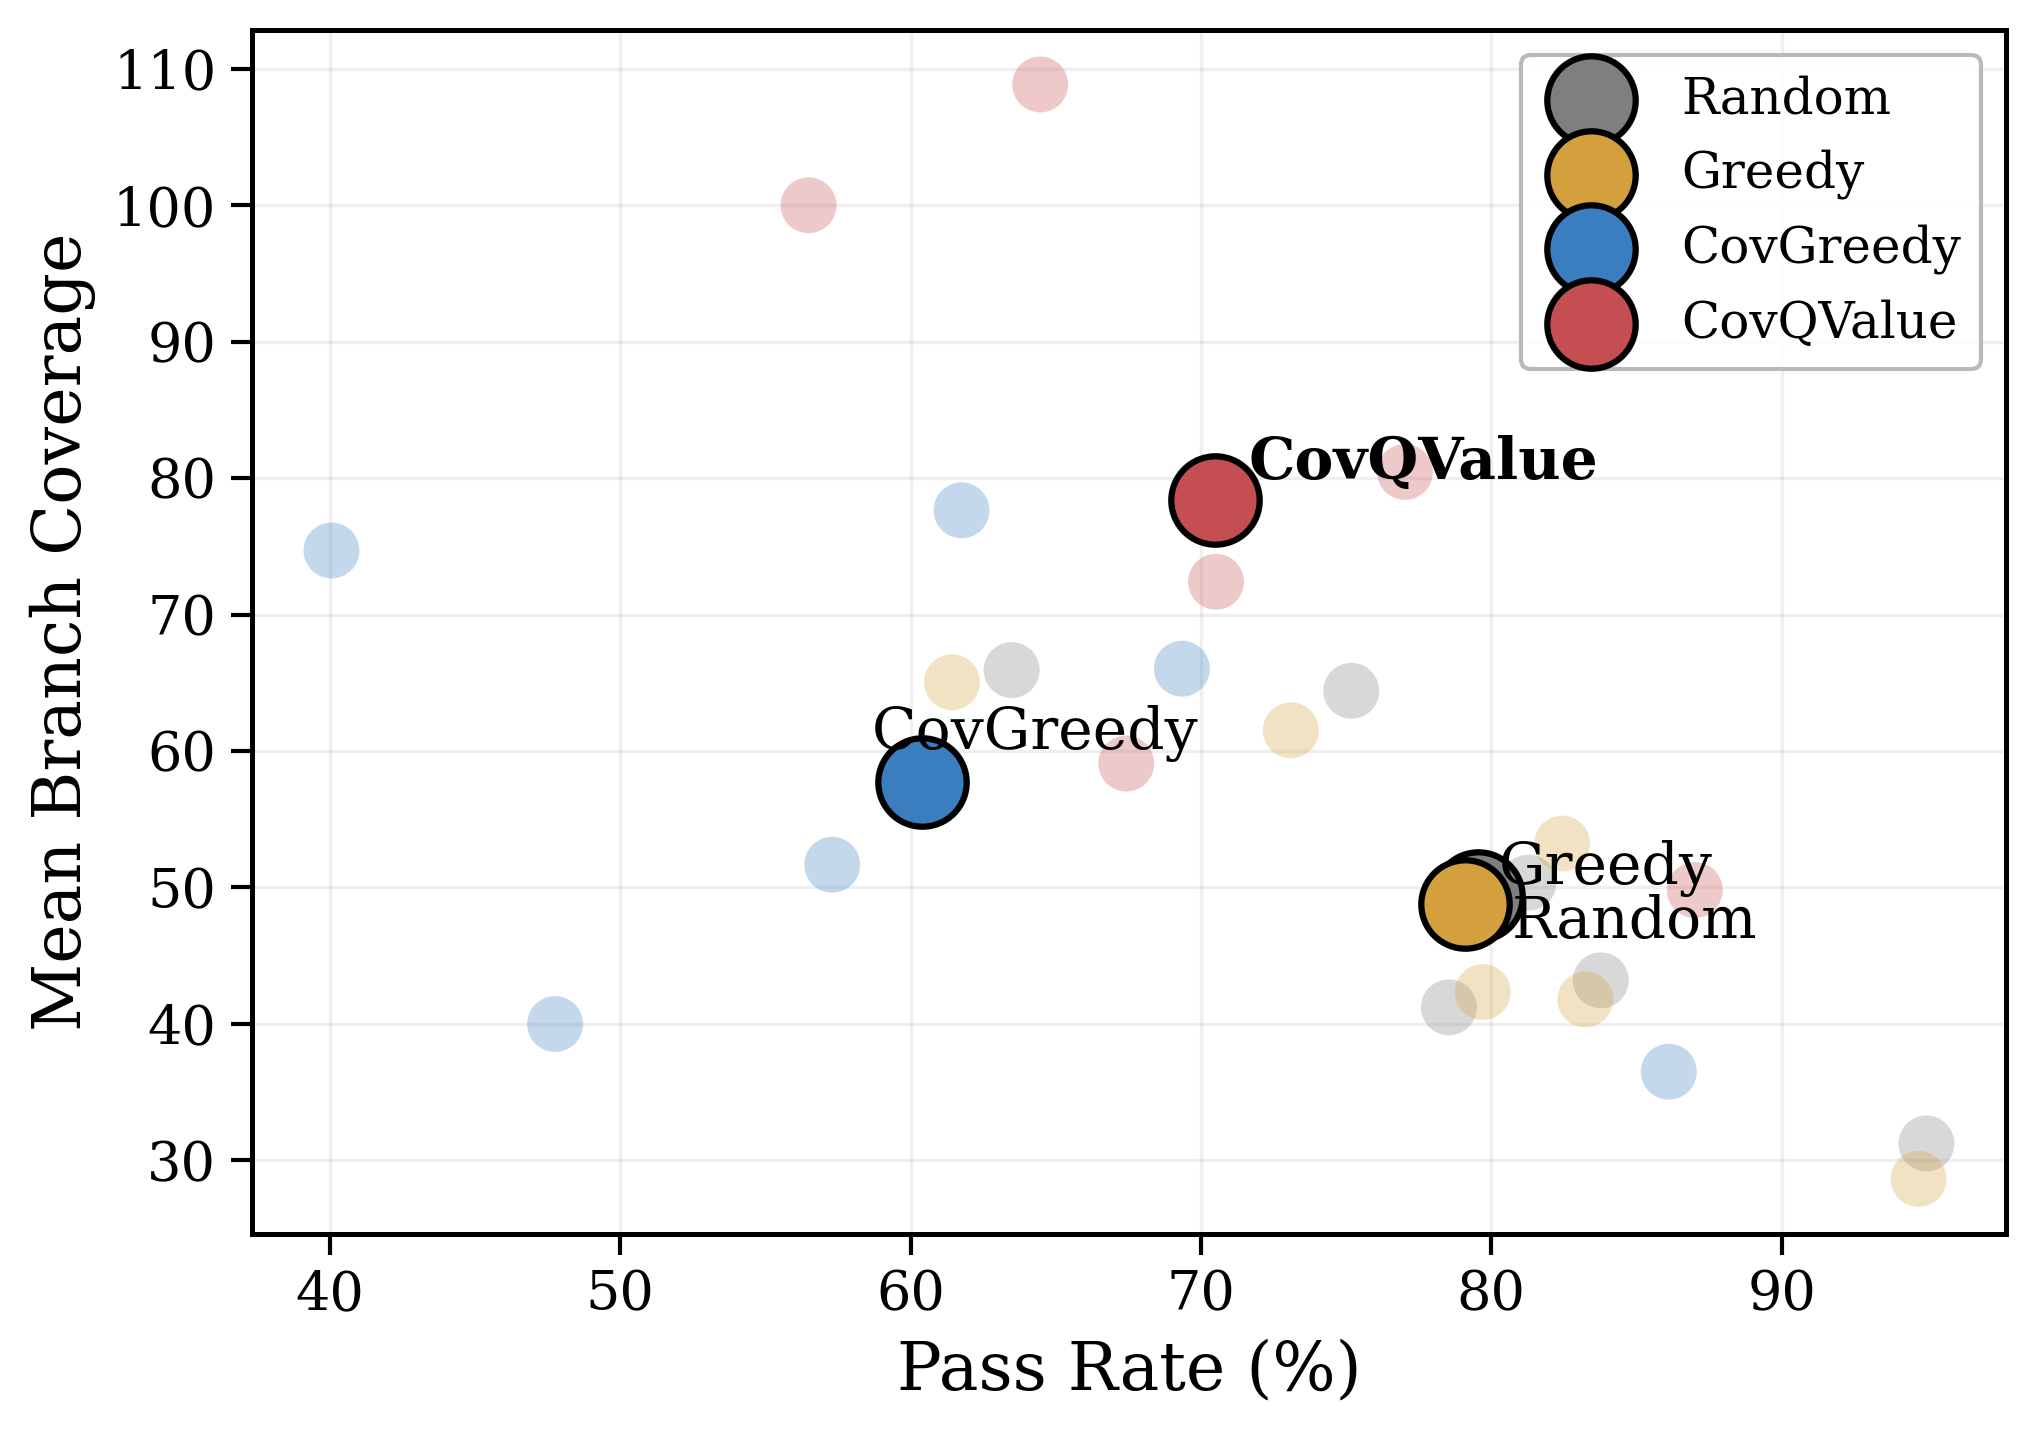
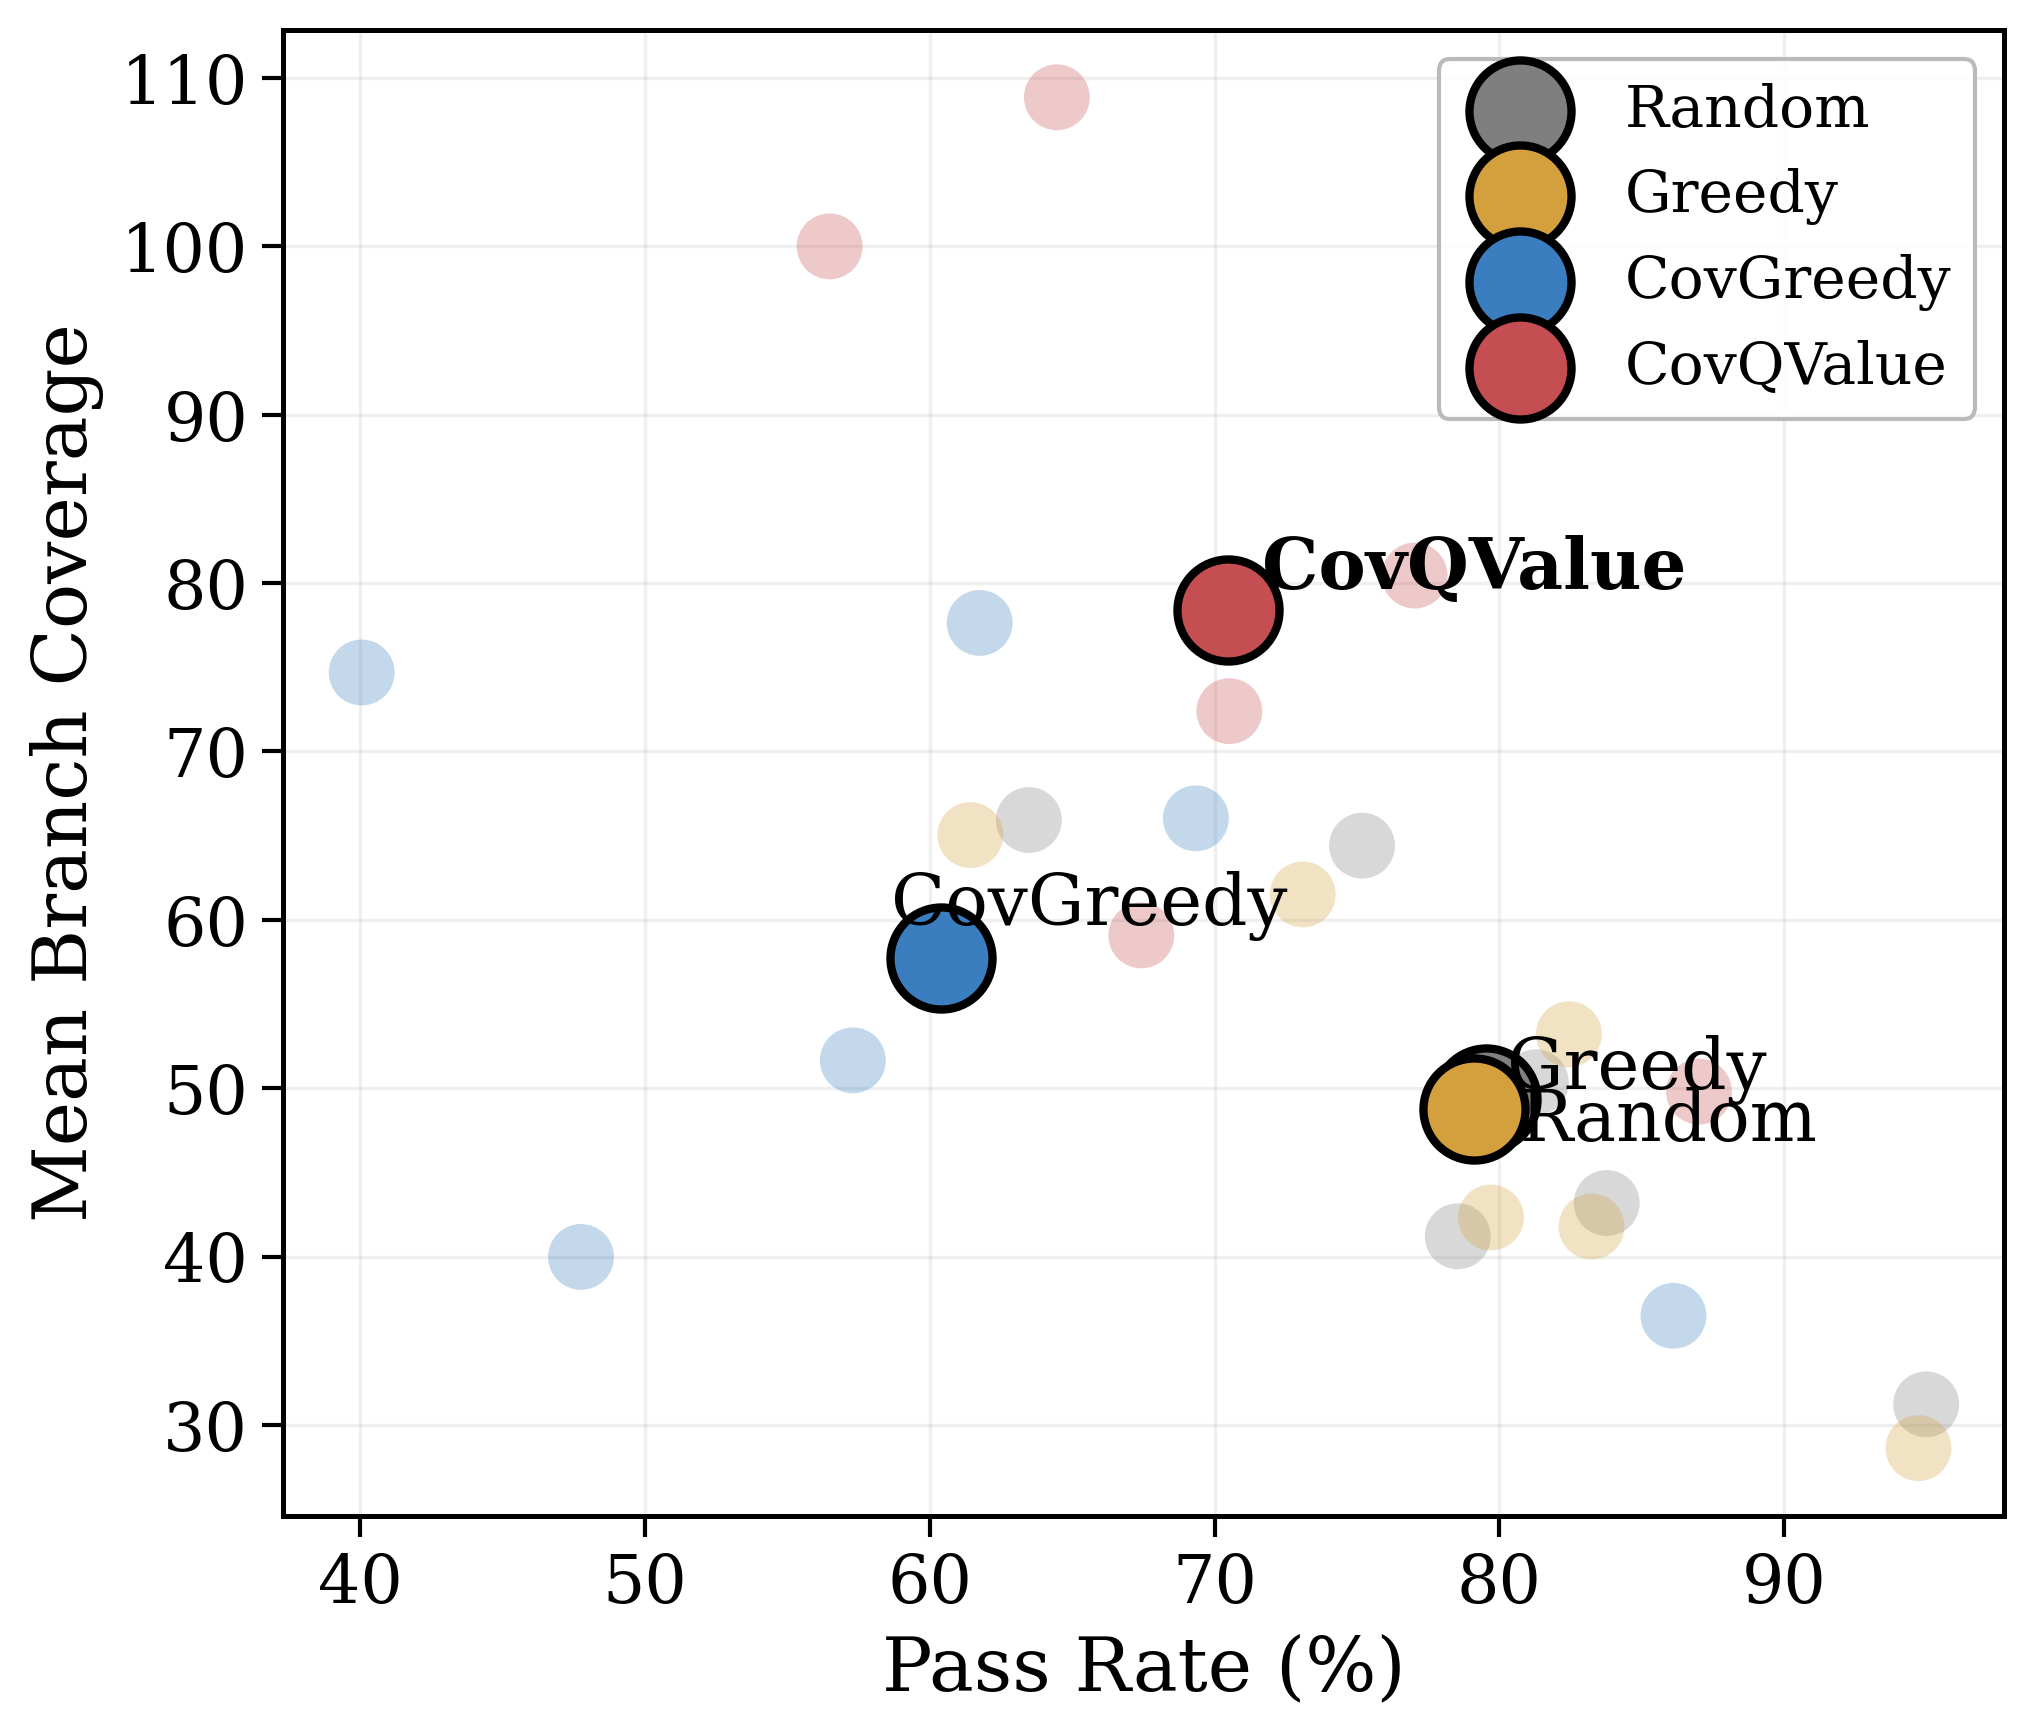
Increase fig4 sizes for 50% textwidth display

diff --git a/plots/paper_figures.py b/plots/paper_figures.py
@@ -250,7 +250,11 @@ def fig_per_repo(data):
 
 def fig_pass_rate_vs_coverage(data):
     """Pass rate vs coverage: transparent dots per (model,bench), bold means."""
-    fig, ax = plt.subplots(figsize=(7, 5))
+    # Larger sizes for 50% textwidth display
+    fig, ax = plt.subplots(figsize=(7, 6))
+    ax.tick_params(labelsize=16)
+    ax.xaxis.label.set_size(18)
+    ax.yaxis.label.set_size(18)
 
     # Collect all individual points: one per (strategy, model, benchmark)
     grand = {s: {"pr": [], "br": []} for s in STRATEGIES}
@@ -275,7 +279,7 @@ def fig_pass_rate_vs_coverage(data):
 
                 # Small transparent dot
                 ax.scatter(mean_pr, mean_br, color=STRATEGY_COLORS[s],
-                          s=180, alpha=0.3, edgecolors="none", zorder=2)
+                          s=250, alpha=0.3, edgecolors="none", zorder=2)
 
     # Grand mean per strategy: large opaque dot with label
     label_offsets = {
@@ -290,17 +294,17 @@ def fig_pass_rate_vs_coverage(data):
         mean_pr = np.mean(grand[s]["pr"])
         mean_br = np.mean(grand[s]["br"])
         ax.scatter(mean_pr, mean_br, color=STRATEGY_COLORS[s],
-                  s=450, alpha=1.0, edgecolors="black", linewidths=1.5,
+                  s=600, alpha=1.0, edgecolors="black", linewidths=2.0,
                   zorder=4, label=STRATEGY_LABELS[s])
         ax.annotate(STRATEGY_LABELS[s], (mean_pr, mean_br),
                    textcoords="offset points",
-                   xytext=label_offsets.get(s, (10, 6)),
-                   fontsize=14, fontweight="bold" if s == "cov_qvalue" else "normal",
+                   xytext=label_offsets.get(s, (12, 7)),
+                   fontsize=17, fontweight="bold" if s == "cov_qvalue" else "normal",
                    zorder=5)
 
     ax.set_xlabel("Pass Rate (%)")
     ax.set_ylabel("Mean Branch Coverage")
-    ax.legend(loc="upper right")
+    ax.legend(loc="upper right", fontsize=14)
     ax.grid(True, alpha=0.2)
 
     plt.tight_layout()
